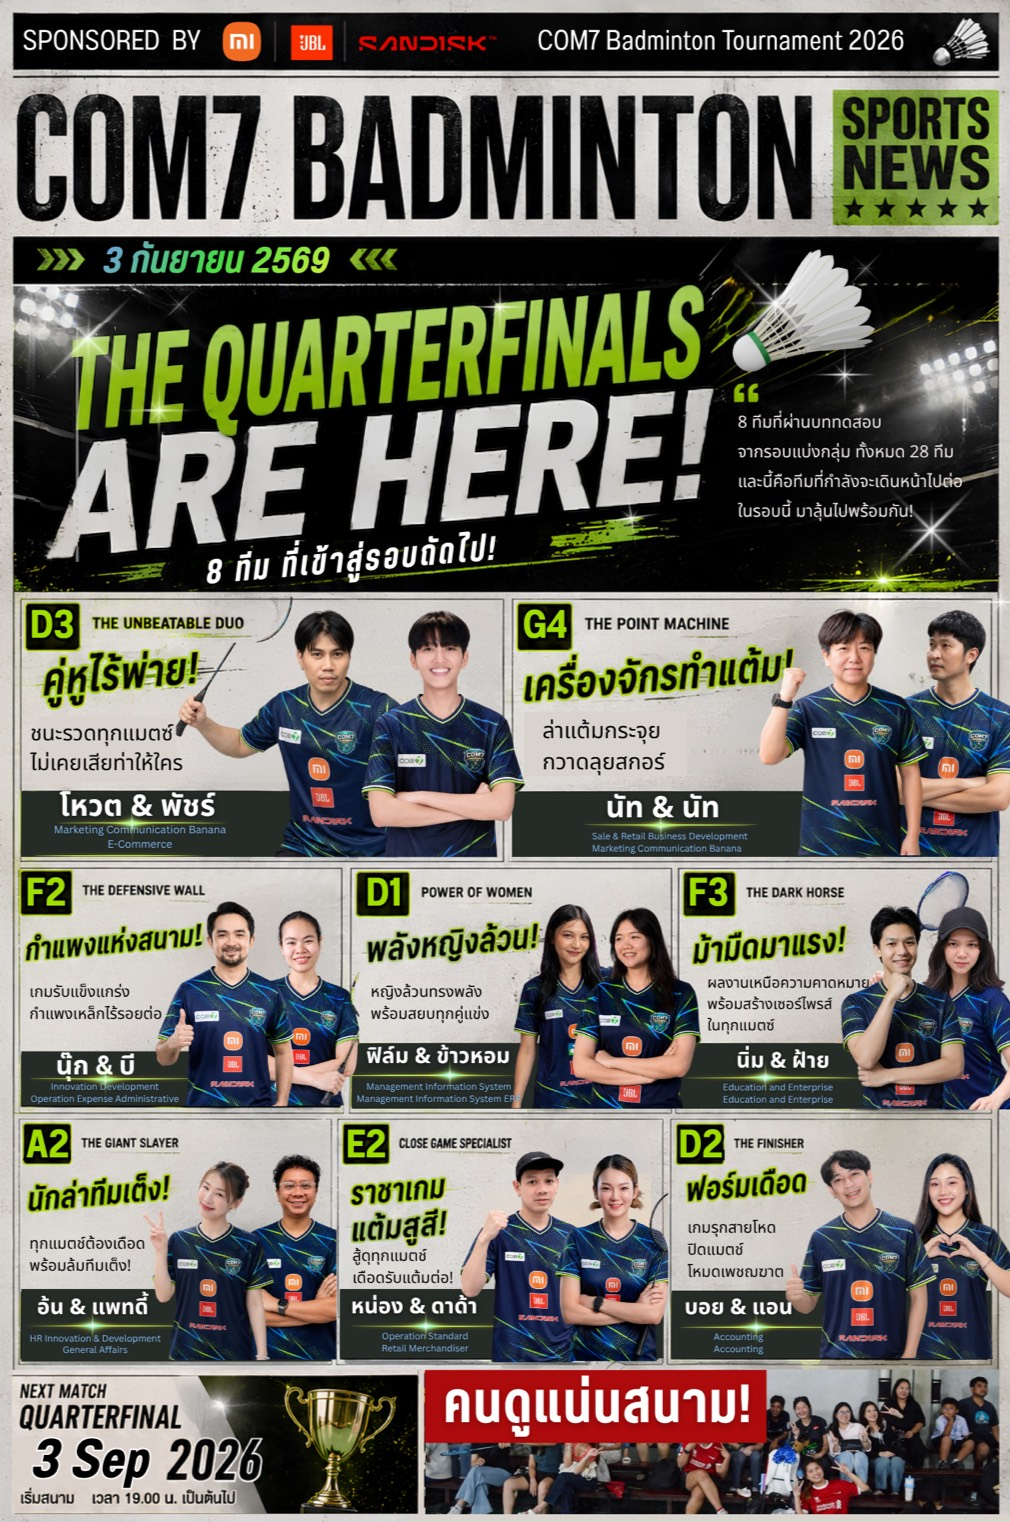
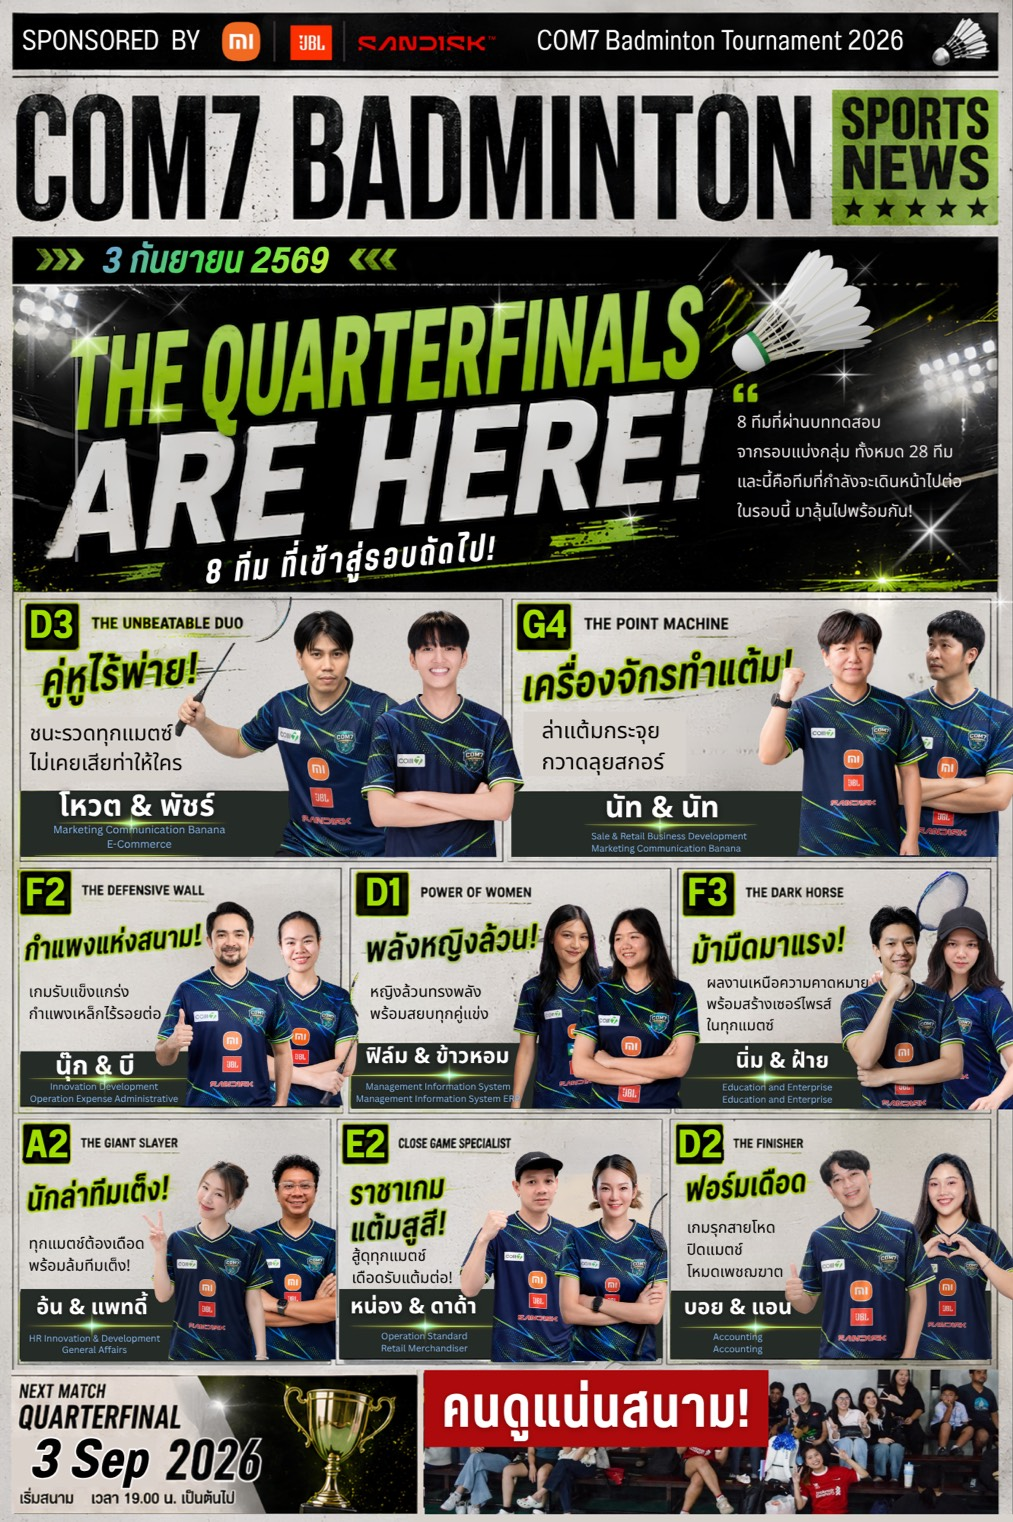
update

diff --git a/app/page.tsx b/app/page.tsx
@@ -71,7 +71,7 @@ export default function HomePage() {
           alt="Badminton Background"
         />
         <img
-          src="/badminton-main-mobile-v3.jpg"
+          src="/badminton-main-mobile-v3.PNG"
           className="block md:hidden w-full h-full object-cover object-[75%_center]"
           alt="Badminton Background Mobile"
         />
